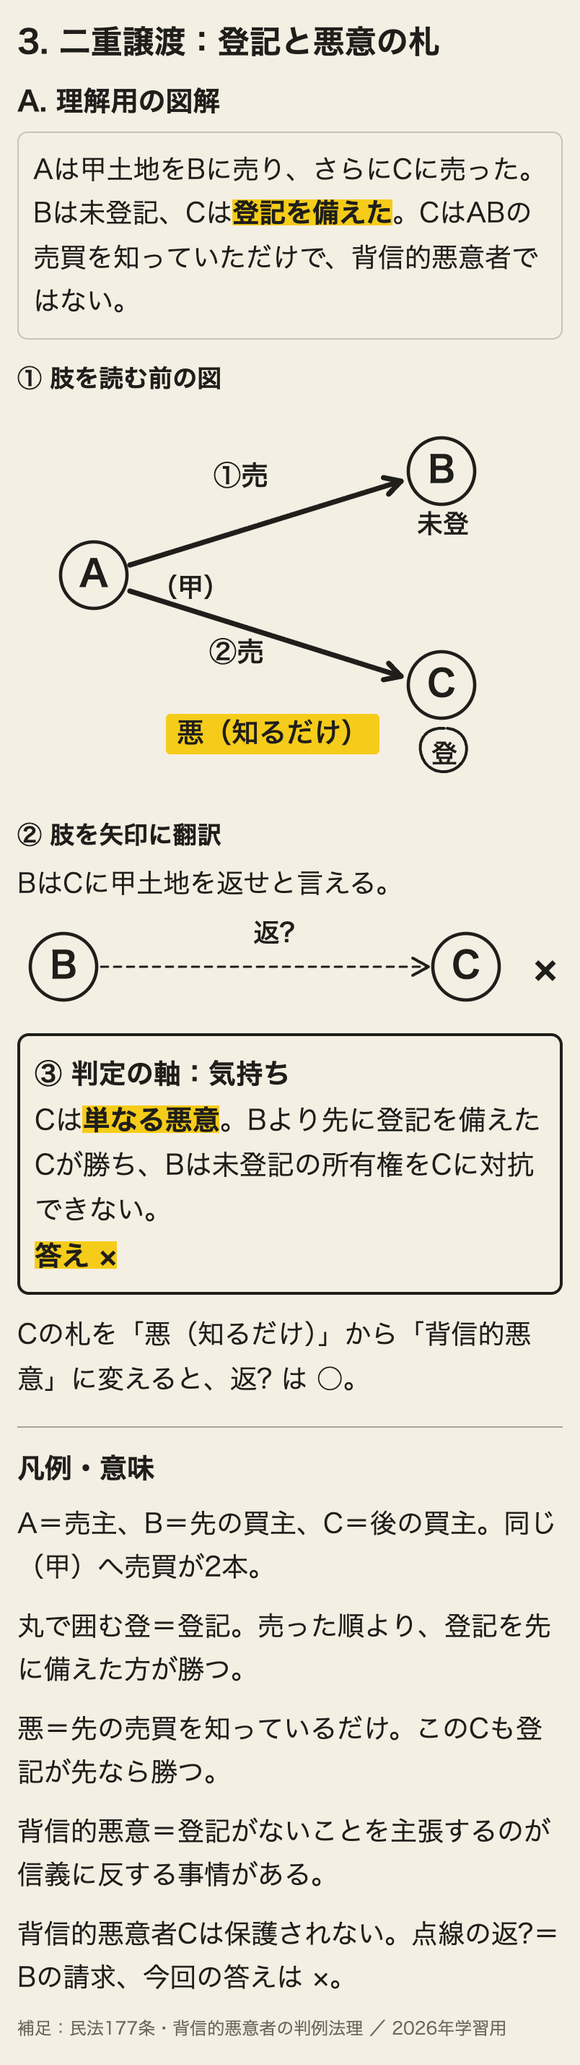
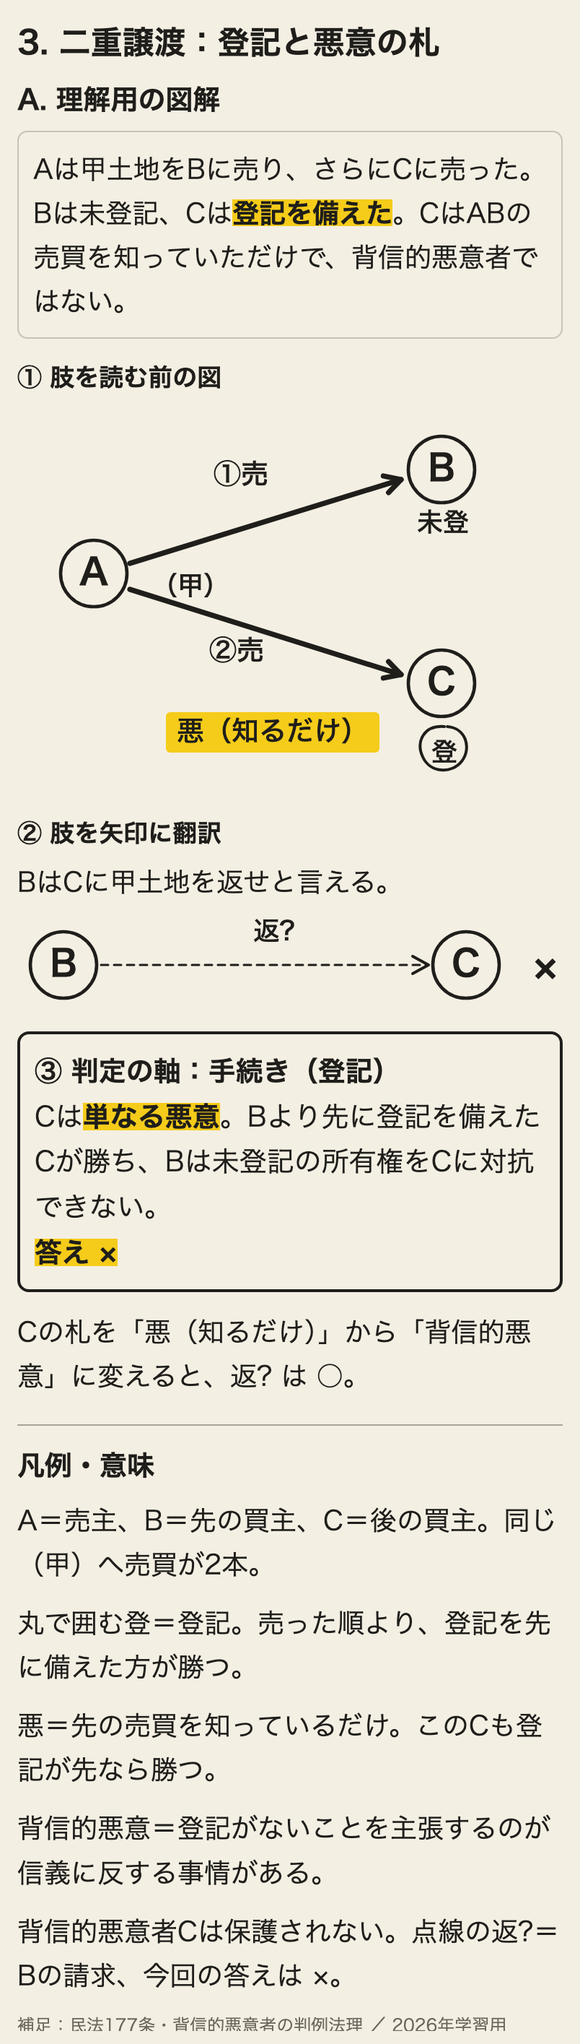
publish: 宅建業法 暗記スライド 権利の図の型：二重譲渡の軸を登記に、10/10〜12の論点名を復元

diff --git a/plain-0ee08412cf31b48f.html b/plain-0ee08412cf31b48f.html
@@ -873,6 +873,12 @@ body.n #slides,body.n #ft{display:none}body.n #pitfalls{display:block}
 #pitfalls h1{font-size:18px;margin:0 4px 8px}.pf-pager{display:flex;align-items:center;gap:6px;margin-bottom:10px}.pf-pager button{min-width:40px;min-height:44px;font-size:26px;border:1px solid var(--aline);border-radius:6px}.pf-pager button:disabled{opacity:.3}.pf-pager select{width:0;flex:1;min-height:44px;font-size:13px;background:var(--abg);color:inherit;border:1px solid var(--aline);border-radius:6px;padding:5px}
 #pitfalls .pf-card{padding:0;border:0}#pitfalls .pf-card[hidden]{display:none}.pf-image{display:block;width:100%;height:auto;border-radius:6px}.pf-more{margin-top:10px}.pf-more>summary{font-size:14px}.pf-more .pf-flow{display:none}.pf-references{margin-top:12px;font-size:12px}
 
+/* Rights diagram pairs: only navigation, no grade or sync writes. */
+#kenri-fig{display:none;max-width:476px;margin:auto;padding:calc(var(--ahd) + env(safe-area-inset-top) + 8px) 8px 36px}
+body.kf #slides,body.kf #ft{display:none}body.kf #kenri-fig{display:block}
+#kenri-fig h1{font-size:21px;margin:0 4px 10px}.kf-pager{display:flex;align-items:center;gap:6px;margin-bottom:10px}.kf-pager button{min-width:40px;min-height:44px;font-size:26px;border:1px solid var(--aline);border-radius:6px}.kf-pager button:disabled{opacity:.3}.kf-pager select{width:0;flex:1;min-height:44px;font-size:15px;background:var(--abg);color:inherit;border:1px solid var(--aline);border-radius:6px;padding:5px}
+.kf-card[hidden]{display:none}.kf-figure{margin:0 0 18px}.kf-figure figcaption{position:absolute;width:1px;height:1px;padding:0;margin:-1px;overflow:hidden;clip-path:inset(50%);white-space:nowrap}.kf-image{display:block;width:100%;height:auto;border-radius:6px}.kf-source{font-size:12px;margin:8px 4px}.kf-source a{color:inherit}
+
 .scope-reading,.scope-lesson{font-size:16px;line-height:1.75;overflow-wrap:anywhere;scroll-margin-top:calc(var(--ahd) + 20px)}.scope-reading{margin:28px 0;padding:14px;border:1px solid var(--aline);border-radius:10px}.scope-reading h2{font-size:22px;margin:0 0 12px}.scope-reading h3{font-size:18px;margin:28px 0 12px}.scope-reading details,.scope-lesson{border-top:1px solid var(--aline);padding:8px 0}.scope-reading summary,.scope-lesson summary{min-height:44px;padding:10px 4px;font-size:16px;font-weight:700;cursor:pointer}.scope-reading img{width:100%;height:auto}.scope-reading .optional-figure{margin:0}.scope-reading .license-panel{display:block}.scope-reading .license-switch,.scope-reading .zk-feedback{display:none}.scope-reading li{margin:10px 0}.scope-reading a,.scope-source{display:inline-block;min-height:44px;padding:10px 4px;color:inherit}.scope-reading .scope-item{padding:12px 0;border-bottom:1px solid var(--aline)}.scope-reading .scope-item p{margin:4px 0}.scope-links{display:flex;gap:8px;flex-wrap:wrap;margin:8px 0 22px}.scope-links a{display:flex;align-items:center;min-height:44px;padding:10px 12px;border:1px solid var(--aline);border-radius:8px;color:inherit;text-decoration:none;font-size:15px}.scope-lesson{padding:8px 16px;margin-bottom:20px}.scope-reading .optional-question>p{white-space:normal}.scope-reading .zk-note,.scope-reading .zk-sources{font-size:16px}.scope-reading .optional-root>summary{font-size:20px}
 </style>
 </head>
@@ -1135,6 +1141,7 @@ body.n #slides,body.n #ft{display:none}body.n #pitfalls{display:block}
 売買・交換
 定めがなければ、この記載は不要" width="1122" height="1402" decoding="async"><details class="pf-more"><summary>詳しく見る・確認問題</summary><p class="pf-mix">混同：37条の条件付き記載事項を全部同じ範囲だと思う。</p><div class="pf-flow">災害の負担 → 貸借も<br>税金の負担 → 売買・交換</div><p>天災その他不可抗力による損害の負担について定めたときは、売買・交換・貸借の37条書面に記載。租税公課の負担の定めは、売買・交換の記載事項。いずれも「定めがあるとき」の話で、契約違反に対する違約金とは別。</p><details><summary>一問確認：貸借では、災害による損害の負担を定めても37条書面に書かなくてよい？</summary><p>×。定めがあれば貸借でも記載する。</p></details></details></article>
 <details class="pf-references"><summary>動画の出典</summary><p><a href="https://www.youtube.com/watch?v=Qqpu46WYJ6Y">35条</a> ／ <a href="https://www.youtube.com/watch?v=e8CXxh6IFtE">37条</a> ／ <a href="https://www.youtube.com/watch?v=jo5e24ToJJc">8種制限</a></p></details></section>
+<section id="kenri-fig" aria-label="権利の図の型"><h1>権利の図の型</h1><div class="kf-pager"><button type="button" data-kf-step="-1" aria-label="前の論点" disabled>‹</button><select id="kf-select" aria-label="論点を選ぶ"><option value="kf-sagi">1. 意思表示：詐欺と第三者</option><option value="kf-dairi">2. 代理：無権代理の三角形</option><option value="kf-nijou">3. 二重譲渡：登記と悪意の札</option><option value="kf-tentai">4. 賃貸借：縦3段の転貸</option><option value="kf-shakuchi">5. 借地借家法：30・20・10</option><option value="kf-teitou">6. 抵当権：設定時の土地と建物</option><option value="kf-souzoku">7. 相続：家系図と配偶者の取り分</option></select><button type="button" data-kf-step="1" aria-label="次の論点">›</button></div><article class="kf-card" id="kf-sagi"><figure class="kf-figure"><figcaption>A. 理解用の図解</figcaption><img class="kf-image" loading="lazy" width="804" src="kenri-fig/clean-sagi.png?v=20261004" alt="AはBにだまされて甲土地を売り、BはCに転売。Cは登記を備え、善意・無過失。その後、Aが詐欺を理由に売買を取り消した。 肢：AはCに甲土地を返せと言える。 判定の軸：気持ち。Cは取消し前の第三者。善意・無過失なので守られる。AはCに取消しを対抗できない。 答え× Cの札を「善・無過」から「悪」に変えると、返? は ○。 凡例・意味：丸A・B・C＝人、（甲）＝土地。太矢印＝売買、①②③＝順番。 詐＝詐欺、善＝詐欺を知らない、無過＝知らないことに過失がない。 丸で囲む登＝登記、×＝取消し。点線の返?＝Aの返還請求、答えは ×。 取消し前の善意無過失のCに、Aは詐欺取消しを対抗できない。 詐を強（強迫）に変えると、善意のCにも取消しを対抗できる。"></figure><figure class="kf-figure"><figcaption>B. 本番用の鉛筆の図</figcaption><img class="kf-image" loading="lazy" width="804" src="kenri-fig/pencil-sagi.png?v=20261004" alt="AはBにだまされて甲土地を売り、BはCに転売。Cは登記を備え、善意・無過失。その後、Aが詐欺を理由に売買を取り消した。 肢：AはCに甲土地を返せと言える。 判定の軸：気持ち。Cは取消し前の第三者。善意・無過失なので守られる。AはCに取消しを対抗できない。 答え× Cの札を「善・無過」から「悪」に変えると、返? は ○。 凡例・意味：丸A・B・C＝人、（甲）＝土地。太矢印＝売買、①②③＝順番。 詐＝詐欺、善＝詐欺を知らない、無過＝知らないことに過失がない。 丸で囲む登＝登記、×＝取消し。点線の返?＝Aの返還請求、答えは ×。 取消し前の善意無過失のCに、Aは詐欺取消しを対抗できない。 詐を強（強迫）に変えると、善意のCにも取消しを対抗できる。"></figure><p class="kf-source">補足：<a href="https://laws.e-gov.go.jp/law/129AC0000000089?occasion_date=20260401" target="_blank" rel="noopener">民法96条3項</a></p></article><article class="kf-card" id="kf-dairi" hidden><figure class="kf-figure"><figcaption>A. 理解用の図解</figcaption><img class="kf-image" loading="lazy" width="804" src="kenri-fig/clean-dairi.png?v=20261004" alt="Bは代理権がないと知らず、Aの代理人としてCと契約。Aは追認を拒絶。Cは善意・無過失で、Bは制限行為能力者ではない。 肢：CはBに履行または損害賠償を請求できる。 判定の軸：気持ち。Cは善意・無過失。追認も代理権もないので、Cの選択でBに履行または損害賠償を請求できる。 答え○ Bが無権と知らないまま、Cの札を「無過」から「過」に変えると ×。 凡例・意味：A＝本人、B＝無権代理人、C＝相手方。三角形の底辺がBとCの契約。 権0＝代理権なし、不知＝Bは無権と知らず、拒＝Aの追認拒絶。 点線の履行?＝CがBに請求できるか。履行・損害賠償のどちらかをCが選ぶ。 Cは原則、善意無過失。Bが無権と知っていたなら、善意Cは過失ありでも請求可。 追認の催告はCの善悪を問わない。追認前の取消しは善意Cだけ（過失は不問）。 117条の責任は、Bが制限行為能力者なら負わない。"></figure><figure class="kf-figure"><figcaption>B. 本番用の鉛筆の図</figcaption><img class="kf-image" loading="lazy" width="804" src="kenri-fig/pencil-dairi.png?v=20261004" alt="Bは代理権がないと知らず、Aの代理人としてCと契約。Aは追認を拒絶。Cは善意・無過失で、Bは制限行為能力者ではない。 肢：CはBに履行または損害賠償を請求できる。 判定の軸：気持ち。Cは善意・無過失。追認も代理権もないので、Cの選択でBに履行または損害賠償を請求できる。 答え○ Bが無権と知らないまま、Cの札を「無過」から「過」に変えると ×。 凡例・意味：A＝本人、B＝無権代理人、C＝相手方。三角形の底辺がBとCの契約。 権0＝代理権なし、不知＝Bは無権と知らず、拒＝Aの追認拒絶。 点線の履行?＝CがBに請求できるか。履行・損害賠償のどちらかをCが選ぶ。 Cは原則、善意無過失。Bが無権と知っていたなら、善意Cは過失ありでも請求可。 追認の催告はCの善悪を問わない。追認前の取消しは善意Cだけ（過失は不問）。 117条の責任は、Bが制限行為能力者なら負わない。"></figure><p class="kf-source">補足：<a href="https://laws.e-gov.go.jp/law/129AC0000000089?occasion_date=20260401" target="_blank" rel="noopener">民法114・115・117条</a></p></article><article class="kf-card" id="kf-nijou" hidden><figure class="kf-figure"><figcaption>A. 理解用の図解</figcaption><img class="kf-image" loading="lazy" width="804" src="kenri-fig/clean-nijou.png?v=20261004" alt="Aは甲土地をBに売り、さらにCに売った。Bは未登記、Cは登記を備えた。CはABの売買を知っていただけで、背信的悪意者ではない。 肢：BはCに甲土地を返せと言える。 判定の軸：手続き（登記）。Cは単なる悪意。Bより先に登記を備えたCが勝ち、Bは未登記の所有権をCに対抗できない。 答え× Cの札を「悪（知るだけ）」から「背信的悪意」に変えると、返? は ○。 凡例・意味：A＝売主、B＝先の買主、C＝後の買主。同じ（甲）へ売買が2本。 丸で囲む登＝登記。売った順より、登記を先に備えた方が勝つ。 悪＝先の売買を知っているだけ。このCも登記が先なら勝つ。 背信的悪意＝登記がないことを主張するのが信義に反する事情がある。 背信的悪意者Cは保護されない。点線の返?＝Bの請求、今回の答えは ×。"></figure><figure class="kf-figure"><figcaption>B. 本番用の鉛筆の図</figcaption><img class="kf-image" loading="lazy" width="804" src="kenri-fig/pencil-nijou.png?v=20261004" alt="Aは甲土地をBに売り、さらにCに売った。Bは未登記、Cは登記を備えた。CはABの売買を知っていただけで、背信的悪意者ではない。 肢：BはCに甲土地を返せと言える。 判定の軸：手続き（登記）。Cは単なる悪意。Bより先に登記を備えたCが勝ち、Bは未登記の所有権をCに対抗できない。 答え× Cの札を「悪（知るだけ）」から「背信的悪意」に変えると、返? は ○。 凡例・意味：A＝売主、B＝先の買主、C＝後の買主。同じ（甲）へ売買が2本。 丸で囲む登＝登記。売った順より、登記を先に備えた方が勝つ。 悪＝先の売買を知っているだけ。このCも登記が先なら勝つ。 背信的悪意＝登記がないことを主張するのが信義に反する事情がある。 背信的悪意者Cは保護されない。点線の返?＝Bの請求、今回の答えは ×。"></figure><p class="kf-source">補足：<a href="https://laws.e-gov.go.jp/law/129AC0000000089?occasion_date=20260401" target="_blank" rel="noopener">民法177条・背信的悪意者の判例法理</a></p></article><article class="kf-card" id="kf-tentai" hidden><figure class="kf-figure"><figcaption>A. 理解用の図解</figcaption><img class="kf-image" loading="lazy" width="804" src="kenri-fig/clean-tentai.png?v=20261004" alt="A→B→Cと、Aの承諾がある転貸。AとBが合意解除した。合意解除の時に、AにはBの不払いによる解除権がなかった。 肢：Aは合意解除を理由に、Cに明渡しを求められる。 判定の軸：時間。③合意解除の時に、不払いによる解除権はない。ABだけの合意解除をCに対抗できず、Cに明渡しを求められない。 答え× ③の札を「合意解除」から「Bの不払いによる解除」に変えると、返? は ○。 凡例・意味：A＝貸主、B＝借主、C＝転借人。貸＝賃貸、転＝転貸、×＝解除。 点線の返?＝AがCに明渡しを求めるか。今回は承諾ありの適法な転貸。 合意解除はCに対抗できない。ただし合意時に債務不履行解除権があれば別。 Bの賃料不払いによる債務不履行解除は、Cに対抗できる。 無断転貸は原則解除可。背信的でない特段の事情があれば解除不可。"></figure><figure class="kf-figure"><figcaption>B. 本番用の鉛筆の図</figcaption><img class="kf-image" loading="lazy" width="804" src="kenri-fig/pencil-tentai.png?v=20261004" alt="A→B→Cと、Aの承諾がある転貸。AとBが合意解除した。合意解除の時に、AにはBの不払いによる解除権がなかった。 肢：Aは合意解除を理由に、Cに明渡しを求められる。 判定の軸：時間。③合意解除の時に、不払いによる解除権はない。ABだけの合意解除をCに対抗できず、Cに明渡しを求められない。 答え× ③の札を「合意解除」から「Bの不払いによる解除」に変えると、返? は ○。 凡例・意味：A＝貸主、B＝借主、C＝転借人。貸＝賃貸、転＝転貸、×＝解除。 点線の返?＝AがCに明渡しを求めるか。今回は承諾ありの適法な転貸。 合意解除はCに対抗できない。ただし合意時に債務不履行解除権があれば別。 Bの賃料不払いによる債務不履行解除は、Cに対抗できる。 無断転貸は原則解除可。背信的でない特段の事情があれば解除不可。"></figure><p class="kf-source">補足：<a href="https://laws.e-gov.go.jp/law/129AC0000000089?occasion_date=20260401" target="_blank" rel="noopener">民法612・613条3項・背信行為の判例法理</a></p></article><article class="kf-card" id="kf-shakuchi" hidden><figure class="kf-figure"><figcaption>A. 理解用の図解</figcaption><img class="kf-image" loading="lazy" width="804" src="kenri-fig/clean-shakuchi.png?v=20261004" alt="期間30年の普通借地契約を初めて更新する。更新後の期間について、法律より長くする合意はない。 肢：最初の更新後の期間は20年である。 判定の軸：数字。普通借地の最初の更新は20年。設定時は30年、次の更新から10年。いずれも、より長い期間の合意はできる。 答え○ 更新の札を「初回」から「2回目」に変えると20年は ×、10年になる。 凡例・意味：横軸＝経過年数。30・50・60は経過年、上の30・20・10が各期間。 普通借地：最短30年、最初の更新20年、以後10年。より長い合意は可。 普通借家：1年未満の定めは「期間の定めなし」。定期借家にはこの扱いなし。 借地の対抗：借地権者本人名義の、借地上の建物の登記。長男名義では不可。 借家の対抗：建物の引渡し。点線の年数?＝更新後20年か、答えは ○。"></figure><figure class="kf-figure"><figcaption>B. 本番用の鉛筆の図</figcaption><img class="kf-image" loading="lazy" width="804" src="kenri-fig/pencil-shakuchi.png?v=20261004" alt="期間30年の普通借地契約を初めて更新する。更新後の期間について、法律より長くする合意はない。 肢：最初の更新後の期間は20年である。 判定の軸：数字。普通借地の最初の更新は20年。設定時は30年、次の更新から10年。いずれも、より長い期間の合意はできる。 答え○ 更新の札を「初回」から「2回目」に変えると20年は ×、10年になる。 凡例・意味：横軸＝経過年数。30・50・60は経過年、上の30・20・10が各期間。 普通借地：最短30年、最初の更新20年、以後10年。より長い合意は可。 普通借家：1年未満の定めは「期間の定めなし」。定期借家にはこの扱いなし。 借地の対抗：借地権者本人名義の、借地上の建物の登記。長男名義では不可。 借家の対抗：建物の引渡し。点線の年数?＝更新後20年か、答えは ○。"></figure><p class="kf-source">補足：<a href="https://laws.e-gov.go.jp/law/403AC0000000090?occasion_date=20260401" target="_blank" rel="noopener">借地借家法3・4・10・29・31条</a></p></article><article class="kf-card" id="kf-teitou" hidden><figure class="kf-figure"><figcaption>A. 理解用の図解</figcaption><img class="kf-image" loading="lazy" width="804" src="kenri-fig/clean-teitou.png?v=20261004" alt="A所有の土地と、その上にあるA所有の建物。土地に抵当権を設定し、競売で土地だけがC所有になった。 肢：建物のために法定地上権が成立する。 判定の軸：時間。①抵当権設定の時に、建物があり土地・建物は同じA所有。競売で所有者が分かれたので、法定地上権が成立する。 答え○ ①の建物の札を「あり」から「なし（更地）」に変えると、地上? は ×。 凡例・意味：□＝土地と建物、△＝抵当権。同A＝同一所有者、別有＝競売で所有が分かれる。 法定地上権：設定時に建物があり、土地・建物が同一所有、競売で所有が分離。 更地に抵当権→その後建物なら、法定地上権は成立しない。 設定後の建物は土地と一括競売可。優先弁済は土地代金だけ（対抗できる利用権がない場合）。 賃料への物上代位：賃料の払渡し前に差押えが必要。 点線の地上?＝法定地上権が成立するか。今回の答えは ○。"></figure><figure class="kf-figure"><figcaption>B. 本番用の鉛筆の図</figcaption><img class="kf-image" loading="lazy" width="804" src="kenri-fig/pencil-teitou.png?v=20261004" alt="A所有の土地と、その上にあるA所有の建物。土地に抵当権を設定し、競売で土地だけがC所有になった。 肢：建物のために法定地上権が成立する。 判定の軸：時間。①抵当権設定の時に、建物があり土地・建物は同じA所有。競売で所有者が分かれたので、法定地上権が成立する。 答え○ ①の建物の札を「あり」から「なし（更地）」に変えると、地上? は ×。 凡例・意味：□＝土地と建物、△＝抵当権。同A＝同一所有者、別有＝競売で所有が分かれる。 法定地上権：設定時に建物があり、土地・建物が同一所有、競売で所有が分離。 更地に抵当権→その後建物なら、法定地上権は成立しない。 設定後の建物は土地と一括競売可。優先弁済は土地代金だけ（対抗できる利用権がない場合）。 賃料への物上代位：賃料の払渡し前に差押えが必要。 点線の地上?＝法定地上権が成立するか。今回の答えは ○。"></figure><p class="kf-source">補足：<a href="https://laws.e-gov.go.jp/law/129AC0000000089?occasion_date=20260401" target="_blank" rel="noopener">民法388・389・304・372条</a></p></article><article class="kf-card" id="kf-souzoku" hidden><figure class="kf-figure"><figcaption>A. 理解用の図解</figcaption><img class="kf-image" loading="lazy" width="804" src="kenri-fig/clean-souzoku.png?v=20261004" alt="Aが死亡し、相続人は配偶者Bと子C（1人）。遺言はなく、法定相続分で相続する。 肢：配偶者Bの取り分は1/2である。 判定の軸：数字。配偶者と子が相続人なので、配偶者Bは1/2。一緒に相続する相手が直系尊属なら2/3、兄弟姉妹なら3/4。 答え○ 共同相続人の札を「子」から「父（子・孫等なし）」に変えると、1/2は ×、2/3。 凡例・意味：A＝亡くなった人、B＝配偶者、C＝子。横の二重線＝婚姻、縦線＝親子。 配偶者の法定相続分：子と1/2、直系尊属と2/3、兄弟姉妹と3/4。 子の代襲は、その子（孫）へ。孫も先に死亡等なら、さらに再代襲する。 相続放棄した人の子は、その放棄を理由には代襲しない。 兄弟姉妹の代襲は甥・姪まで。甥・姪の子へ再代襲はしない。 点線の取分?＝Bの取り分は1/2か。子・代襲者がいないと尊属、尊属もいないと兄弟姉妹。"></figure><figure class="kf-figure"><figcaption>B. 本番用の鉛筆の図</figcaption><img class="kf-image" loading="lazy" width="804" src="kenri-fig/pencil-souzoku.png?v=20261004" alt="Aが死亡し、相続人は配偶者Bと子C（1人）。遺言はなく、法定相続分で相続する。 肢：配偶者Bの取り分は1/2である。 判定の軸：数字。配偶者と子が相続人なので、配偶者Bは1/2。一緒に相続する相手が直系尊属なら2/3、兄弟姉妹なら3/4。 答え○ 共同相続人の札を「子」から「父（子・孫等なし）」に変えると、1/2は ×、2/3。 凡例・意味：A＝亡くなった人、B＝配偶者、C＝子。横の二重線＝婚姻、縦線＝親子。 配偶者の法定相続分：子と1/2、直系尊属と2/3、兄弟姉妹と3/4。 子の代襲は、その子（孫）へ。孫も先に死亡等なら、さらに再代襲する。 相続放棄した人の子は、その放棄を理由には代襲しない。 兄弟姉妹の代襲は甥・姪まで。甥・姪の子へ再代襲はしない。 点線の取分?＝Bの取り分は1/2か。子・代襲者がいないと尊属、尊属もいないと兄弟姉妹。"></figure><p class="kf-source">補足：<a href="https://laws.e-gov.go.jp/law/129AC0000000089?occasion_date=20260401" target="_blank" rel="noopener">民法887・889・900・939条</a></p></article></section>
 <section id="zukai"><nav class="scope-links"><a href="#video-scope" data-zk-target="video-scope">動画の学習範囲を確認</a><a href="#optional-details" data-zk-target="optional-details">余裕があれば確認</a></nav><div class="zk-intro">動画の基本を図で覚え、確認問題で思い出す。</div>
 <nav class="zk-jumps" aria-label="図解の分野"><a href="#zk37" data-zk-target="zk37">報酬：片方と合計</a><a href="#zk32" data-zk-target="zk32">合格から取引士証</a><a href="#zk30" data-zk-target="zk30">事務所と案内所</a><a href="#zk29" data-zk-target="zk29">業者と宅建士の処分</a><a href="#zk27" data-zk-target="zk27">37条：貸借の5項目</a><a href="#zk38" data-zk-target="zk38">建築確認：動画の規則</a><a href="#zk26" data-zk-target="zk26">宅建業法：欠格</a><a href="#zk-focus" data-zk-target="zk-focus">土地・建物</a><a href="#zk-rights" data-zk-target="zk-rights">権利関係 3枚</a><a href="#zk-tax" data-zk-target="zk-tax">税・その他 5枚</a><a href="#zk-law" data-zk-target="zk-law">法令上の制限</a></nav><figure class="zk" id="zk37">
 <figcaption><span class="no">図37 · 報酬</span><b>売買は片方ずつ。賃貸は合計。</b></figcaption>
@@ -1901,7 +1908,7 @@ body.n #slides,body.n #ft{display:none}body.n #pitfalls{display:block}
       '<details class="pm-card cq-d-days"><summary>日程の全体</summary><ul class="cq-list">' + plan.days.map(function (x) { var rq = x.tasks.filter(function (tk) { return !tk.optional; }), n = rq.filter(function (tk) { return taskDone(tk, latest); }).length; return '<li class="' + (x.date === d ? 'cq-now' : '') + '"><div class="cq-weak-top"><span class="cq-date">' + md(x.date) + '</span><span class="' + (n === rq.length ? 'cq-ok' : x.date < d ? 'cq-ng' : 'pm-muted') + '">' + n + '/' + rq.length + '</span></div><span class="cq-sub">' + esc(x.phase) + '・' + esc(x.time) + '</span>' + x.tasks.map(function (tk) { return '<span class="cq-line">' + (taskDone(tk, latest) ? '✓ ' : '・') + esc(tk.label) + '</span>'; }).join('') + '</li>'; }).join('') + '</ul></details>' +
       '<details class="pm-card cq-d-cut"><summary>遅れたときに削る順番</summary><ol class="cq-ol">' + plan.cutOrder.map(function (x) { return '<li>' + esc(x) + '</li>'; }).join('') + '</ol><p class="cq-sub"><b>削らない：</b>' + esc(plan.keep) + '</p></details>' +
       '<details class="pm-card cq-d-report"><summary>Claudeへの報告文</summary><p class="cq-report-text" id="cq-report-text">' + esc(report(d, rs)) + '</p><div class="pm-tools"><button type="button" data-cq-copy>コピー</button></div><p class="pm-muted">本問の記録は同期でClaudeに届きます。模試の点数やチェックは、この文をコピーして送ってください。</p></details>' +
-      '<div class="cq-links"><button type="button" class="cq-wide-btn" data-cq-rec="">ほかの範囲を記録する</button><button type="button" class="cq-wide-btn" data-kami-open>神問題集を解き直す</button><button type="button" class="cq-wide-btn" data-pitfalls-open>つまずきノート</button></div></section>';
+      '<div class="cq-links"><button type="button" class="cq-wide-btn" data-cq-rec="">ほかの範囲を記録する</button><button type="button" class="cq-wide-btn" data-kami-open>神問題集を解き直す</button><button type="button" class="cq-wide-btn" data-pitfalls-open>つまずきノート</button><button type="button" class="cq-wide-btn" data-kenri-fig-open>権利の図の型</button></div></section>';
     var open = {}; box.querySelectorAll('details').forEach(function (el) { if (el.open) open[el.className] = true; });
     box.innerHTML = head + (lastMsg ? '<p class="pm-status' + (lastMsg.warn ? ' pm-warn' : '') + '" role="status">' + esc(lastMsg.text) + '</p>' : '') + todayCard + trendHTML(rs, latest) + sectionGauges(latest) + weakCard + more;
     box.querySelectorAll('details').forEach(function (el) { if (open[el.className]) el.open = true; });
@@ -2009,7 +2016,7 @@ body.n #slides,body.n #ft{display:none}body.n #pitfalls{display:block}
   }, render: function () { render(); }};
 })(window);
 
-window.TAKKEN_COACH_PLAN={"version": "2026-10-03b", "examDate": "2026-10-18", "start": "2026-09-30", "targets": {"kenri": 8, "horei": 6, "zei": 2, "gyoho": 18, "menjo": 4, "total": 38, "min": 36}, "subjects": [{"id": "gyoho", "label": "業法", "max": 20}, {"id": "menjo", "label": "免除", "max": 5}, {"id": "horei", "label": "法令", "max": 8}, {"id": "zei", "label": "税価", "max": 3}, {"id": "kenri", "label": "権利", "max": 14}], "order": "問26〜45 業法（35分）→ 問46〜50（8分）→ 問15〜25 法令・税（22分）→ 問1〜14 権利（40分）→ マーク見直し（15分）。1問3分を超えたら印をつけて次へ。", "mocks": [{"id": "m1", "date": "2026-10-07", "label": "模試1", "source": "令和7年度 本試験", "goal": 30}, {"id": "m2", "date": "2026-10-10", "label": "模試2", "source": "令和6年度 本試験", "goal": 32}, {"id": "m3", "date": "2026-10-12", "label": "模試3", "source": "令和5年度 本試験", "goal": 34}, {"id": "m4", "date": "2026-10-15", "label": "模試4", "source": "予想模試①（無ければ令和4年度）", "goal": 35}, {"id": "m5", "date": "2026-10-16", "label": "模試5", "source": "予想模試②（無ければ令和3年度10月）", "goal": 36}], "days": [{"date": "2026-09-30", "phase": "業法を終わらせる", "time": "夜2時間", "minimum": "前回の誤答を見直す＋本問5問", "tasks": [{"id": "0930-a", "type": "range", "label": "業法 050〜065（媒介・広告）", "volume": 2, "start": 50, "end": 65}]}, {"date": "2026-10-01", "phase": "業法を終わらせる", "time": "夜2時間", "minimum": "前日の誤答を見直す＋本問5問", "tasks": [{"id": "1001-a", "type": "range", "label": "業法 066〜081（35条・37条）", "volume": 2, "start": 66, "end": 81}]}, {"date": "2026-10-02", "phase": "業法を終わらせる", "time": "夜2時間", "minimum": "前日の誤答を見直す＋本問5問", "tasks": [{"id": "1002-a", "type": "range", "label": "業法 082〜097（8種制限・クーリングオフ・手付金等）", "volume": 2, "start": 82, "end": 97}]}, {"date": "2026-10-03", "phase": "業法を終わらせる", "time": "夜2時間以上", "minimum": "前日の誤答を見直す＋本問5問＋受験票の確認", "tasks": [{"id": "1003-a", "type": "range", "label": "業法 098〜111（報酬・監督処分・住宅瑕疵）", "volume": 2, "start": 98, "end": 111}, {"id": "1003-c", "type": "check", "label": "受験票が届いたか、会場と移動手段を確認（5分）"}]}, {"date": "2026-10-04", "phase": "法令・税を回す＋業法の誤答を直す（外出期間）", "time": "夜・移動の合間（0時までに終える）", "minimum": "間違いやすいリストを作る＋業法009", "tasks": [{"id": "1004-l", "type": "check", "label": "間違いやすいリスト（上の3行）を誤答カードの先頭にも書き写す（10分）"}, {"id": "1004-a", "type": "range", "label": "業法 009（未記録の1問）", "volume": 2, "start": 9, "end": 9}, {"id": "1004-r", "type": "redo", "label": "業法の誤答 解き直し①：8種制限・報酬・監督処分。全肢の理由を言えるまで", "volume": 2, "since": "2026-10-03", "questions": [82, 86, 88, 89, 90, 100, 102, 106, 107, 108]}, {"id": "1004-b", "type": "range", "label": "第3分冊 019〜030（法令上の制限）", "volume": 3, "start": 19, "end": 30}]}, {"date": "2026-10-05", "phase": "法令・税を回す＋業法の誤答を直す（外出期間）", "time": "夜・移動の合間（0時までに終える）", "minimum": "上のリストを読む＋本問5問", "tasks": [{"id": "1005-r", "type": "redo", "label": "業法の誤答 解き直し②：35条・37条とその他。全肢の理由を言えるまで", "volume": 2, "since": "2026-10-03", "questions": [54, 60, 61, 63, 69, 72, 77, 95]}, {"id": "1005-a", "type": "range", "label": "第3分冊 031〜045（法令上の制限）", "volume": 3, "start": 31, "end": 45}]}, {"date": "2026-10-06", "phase": "法令・税を回す＋業法の誤答を直す（外出期間）", "time": "夜・移動の合間（0時までに終える）", "minimum": "上のリストを読む＋本問5問", "tasks": [{"id": "1006-a", "type": "range", "label": "第3分冊 046〜063（法令上の制限）", "volume": 3, "start": 46, "end": 63}]}, {"date": "2026-10-07", "phase": "法令・税を回す＋業法の誤答を直す（外出期間）", "time": "現場を外れる日。前夜は0時までに寝る", "minimum": "模試1と採点", "tasks": [{"id": "1007-m", "type": "mock", "label": "模試1 13:00〜15:00 令和7年度", "mockId": "m1"}, {"id": "1007-b", "type": "check", "label": "模試1の誤答を全肢の理由まで直す。うっかりの誤答はリストに1行足す"}, {"id": "1007-a", "type": "range", "label": "余力があれば 第3分冊 064〜070（法令の残り）", "volume": 3, "start": 64, "end": 70, "optional": true}]}, {"date": "2026-10-08", "phase": "法令・税を回す＋業法の誤答を直す（外出期間）", "time": "午前が空く", "minimum": "本問10問", "tasks": [{"id": "1008-a", "type": "range", "label": "第3分冊 064〜070（法令の残り。10/7に済めば飛ばす）", "volume": 3, "start": 64, "end": 70}, {"id": "1008-b", "type": "range", "label": "第3分冊 071〜085（税・価格。基本の問題だけ、深追いしない）", "volume": 3, "start": 71, "end": 85}]}, {"date": "2026-10-09", "phase": "法令・税を回す＋業法の誤答を直す（外出期間）", "time": "夜（0時までに終える）", "minimum": "業法の誤答の2回目", "tasks": [{"id": "1009-a", "type": "range", "label": "第3分冊 086〜102（税・価格）", "volume": 3, "start": 86, "end": 102}, {"id": "1009-r", "type": "redo", "label": "業法の誤答 2回目：解き直しでまた×だった問題だけ", "volume": 2, "since": "2026-10-07", "pick": "wrong", "questions": [82, 86, 88, 89, 90, 100, 102, 106, 107, 108, 54, 60, 61, 63, 69, 72, 77, 95]}, {"id": "1009-b", "type": "check", "label": "業法と法令の誤答カードを一巡"}]}, {"date": "2026-10-10", "phase": "模試と弱点つぶし", "time": "8時間", "minimum": "模試2と採点", "tasks": [{"id": "1010-a", "type": "check", "label": "肢を読む前に図（権利の図の型を開く）"}, {"id": "1010-m", "type": "mock", "label": "模試2 13:00〜15:00 令和6年度", "mockId": "m2"}, {"id": "1010-b", "type": "check", "label": "採点・誤答の全肢理由＋夜に業法の誤答カード"}]}, {"date": "2026-10-11", "phase": "模試と弱点つぶし", "time": "8時間", "minimum": "借地借家法を一通り", "tasks": [{"id": "1011-a", "type": "check", "label": "肢を読む前に図（権利の図の型を開く）"}, {"id": "1011-b", "type": "check", "label": "権利：区分所有法・不動産登記法"}, {"id": "1011-c", "type": "check", "label": "夜：権利の誤答見直し＋業法の数字"}, {"id": "1011-h", "type": "redo", "label": "業法の隠れた穴：本問は正解でも小問を落とした問題。小問まで全部の理由を言えたら○", "volume": 2, "since": "2026-10-11", "pick": "holes"}]}, {"date": "2026-10-12", "phase": "模試と弱点つぶし", "time": "8時間", "minimum": "模試3と採点", "tasks": [{"id": "1012-a", "type": "check", "label": "肢を読む前に図（権利の図の型を開く）"}, {"id": "1012-m", "type": "mock", "label": "模試3 13:00〜15:00 令和5年度", "mockId": "m3"}, {"id": "1012-b", "type": "check", "label": "採点・誤答。Claudeに報告して最終配分を決める"}]}, {"date": "2026-10-13", "phase": "模試と弱点つぶし", "time": "朝と夜（日中は予定あり）", "minimum": "模試2・3の誤答を一巡", "tasks": [{"id": "1013-a", "type": "check", "label": "7:00〜10:30 模試2・3の誤答"}, {"id": "1013-b", "type": "check", "label": "18:00〜21:00 業法の弱点：誤答18問の3回目＋模試の業法の誤答"}]}, {"date": "2026-10-14", "phase": "模試と弱点つぶし", "time": "8時間（昼に予定1件）", "minimum": "統計の数字を覚える", "tasks": [{"id": "1014-a", "type": "check", "label": "法改正と統計（RE.LIFE直前動画。無ければ予想模試の統計ページ）"}, {"id": "1014-b", "type": "check", "label": "税・価格と法令の数字表"}, {"id": "1014-c", "type": "check", "label": "夜：業法の誤答カード"}, {"id": "1014-h", "type": "redo", "label": "第3分冊の隠れた穴：本問は正解でも小問を落とした問題。小問まで言えたら○", "volume": 3, "since": "2026-10-14", "pick": "holes"}]}, {"date": "2026-10-15", "phase": "模試と弱点つぶし", "time": "8時間", "minimum": "模試4と採点", "tasks": [{"id": "1015-a", "type": "check", "label": "午前：弱点1位の分野"}, {"id": "1015-m", "type": "mock", "label": "模試4 13:00〜15:00 予想模試①（無ければR4）", "mockId": "m4"}, {"id": "1015-b", "type": "check", "label": "採点・誤答"}]}, {"date": "2026-10-16", "phase": "模試と弱点つぶし", "time": "8時間", "minimum": "模試5と採点", "tasks": [{"id": "1016-a", "type": "check", "label": "午前：弱点2位の分野"}, {"id": "1016-m", "type": "mock", "label": "模試5 13:00〜15:00 予想模試②（無ければR3・10月）", "mockId": "m5"}, {"id": "1016-b", "type": "check", "label": "採点・誤答。数字カードの最終版を作る"}]}, {"date": "2026-10-17", "phase": "前日", "time": "軽め", "minimum": "持ち物の確認と早寝", "tasks": [{"id": "1017-a", "type": "check", "label": "間違いやすいリスト・数字カード・誤答カードの見直し（新しい問題はやらない）"}, {"id": "1017-b", "type": "check", "label": "業法の一問一答30問"}, {"id": "1017-c", "type": "check", "label": "持ち物：受験票・鉛筆（HB/B）複数・消しゴム・通信機能のない腕時計・昼食・上着"}, {"id": "1017-d", "type": "check", "label": "22時までに寝る"}]}, {"date": "2026-10-18", "phase": "本試験", "time": "13:00〜15:00", "minimum": "解く順番を守る", "tasks": [{"id": "1018-a", "type": "check", "label": "朝：間違いやすいリスト・数字カード・業法の誤答カードだけ（30分以内）"}, {"id": "1018-b", "type": "check", "label": "12:00までに会場着（集合時刻は受験票で確認）"}, {"id": "1018-c", "type": "check", "label": "解く順番：業法→免除5問→法令・税→権利"}, {"id": "1018-d", "type": "check", "label": "当夜に自己採点して記録"}]}], "checkpoints": [{"date": "2026-10-03", "label": "業法が111問に届いたか", "metric": "count", "volume": 2, "start": 1, "end": 111, "need": 111, "fail": "残り（009）を10/4に回した。第3分冊は001〜018が先行済みのためずらさない"}, {"date": "2026-10-03", "label": "業法050〜111の本問正答率70%以上", "metric": "accuracy", "volume": 2, "start": 50, "end": 111, "need": 0.7, "fail": "10/10の午前を業法の誤答に変える（権利を削る）（10/3は71%で到達。権利は削らず、先行した法令18問分の時間を業法の誤答の解き直しに充てる）"}, {"date": "2026-10-07", "label": "模試1：業法14点以上", "metric": "mock", "mockId": "m1", "field": "gyoho", "need": 14, "fail": "10/10・10/11の午前の一部を業法に回す"}, {"date": "2026-10-07", "label": "模試1：合計28点以上", "metric": "mock", "mockId": "m1", "field": "total", "need": 28, "fail": "25点未満なら権利の目標を7に下げ、業法・法令・免除5問に寄せる"}, {"date": "2026-10-09", "label": "第3分冊 001〜102に届いたか", "metric": "count", "volume": 3, "start": 1, "end": 102, "need": 102, "fail": "税・価格の残りは10/14へ。法令を優先"}, {"date": "2026-10-12", "label": "模試3：合計34点以上", "metric": "mock", "mockId": "m3", "field": "total", "need": 34, "fail": "10/15・10/16の午前をすべて業法と法令に"}, {"date": "2026-10-15", "label": "模試4：合計36点以上", "metric": "mock", "mockId": "m4", "field": "total", "need": 36, "fail": "10/16の午前を目標割れの分野に"}], "cutOrder": ["権利関係の、頻出でない論点（物権変動の細部・共有・地役権・債権総論の細部・担保物権の深いところ）", "税・価格の深追い（取得税・固定資産税・登録免許税／印紙税の基本だけ残す）", "模試の回数（5回→4回。ただし3回は必ず解く）", "免除5問の新しい学習（済みの20問の見直しだけにする）"], "keep": "業法の残り全部、法令上の制限、前日の誤答の見直し、模試3回、本番の解く順番の練習", "traps": {"title": "間違いやすいリスト（解く前に1分）", "from": "2026-10-04", "items": [{"text": "買主も業者なら、8種制限は外れる", "refs": "業法 083・092・093"}, {"text": "その処分をできるのは誰か。免許取消は免許権者だけ", "refs": "業法 107・108"}, {"text": "消費税：税込の価格は割り戻してから計算する。免税業者は×1.04", "refs": "報酬の計算"}]}};
+window.TAKKEN_COACH_PLAN={"version": "2026-10-03b", "examDate": "2026-10-18", "start": "2026-09-30", "targets": {"kenri": 8, "horei": 6, "zei": 2, "gyoho": 18, "menjo": 4, "total": 38, "min": 36}, "subjects": [{"id": "gyoho", "label": "業法", "max": 20}, {"id": "menjo", "label": "免除", "max": 5}, {"id": "horei", "label": "法令", "max": 8}, {"id": "zei", "label": "税価", "max": 3}, {"id": "kenri", "label": "権利", "max": 14}], "order": "問26〜45 業法（35分）→ 問46〜50（8分）→ 問15〜25 法令・税（22分）→ 問1〜14 権利（40分）→ マーク見直し（15分）。1問3分を超えたら印をつけて次へ。", "mocks": [{"id": "m1", "date": "2026-10-07", "label": "模試1", "source": "令和7年度 本試験", "goal": 30}, {"id": "m2", "date": "2026-10-10", "label": "模試2", "source": "令和6年度 本試験", "goal": 32}, {"id": "m3", "date": "2026-10-12", "label": "模試3", "source": "令和5年度 本試験", "goal": 34}, {"id": "m4", "date": "2026-10-15", "label": "模試4", "source": "予想模試①（無ければ令和4年度）", "goal": 35}, {"id": "m5", "date": "2026-10-16", "label": "模試5", "source": "予想模試②（無ければ令和3年度10月）", "goal": 36}], "days": [{"date": "2026-09-30", "phase": "業法を終わらせる", "time": "夜2時間", "minimum": "前回の誤答を見直す＋本問5問", "tasks": [{"id": "0930-a", "type": "range", "label": "業法 050〜065（媒介・広告）", "volume": 2, "start": 50, "end": 65}]}, {"date": "2026-10-01", "phase": "業法を終わらせる", "time": "夜2時間", "minimum": "前日の誤答を見直す＋本問5問", "tasks": [{"id": "1001-a", "type": "range", "label": "業法 066〜081（35条・37条）", "volume": 2, "start": 66, "end": 81}]}, {"date": "2026-10-02", "phase": "業法を終わらせる", "time": "夜2時間", "minimum": "前日の誤答を見直す＋本問5問", "tasks": [{"id": "1002-a", "type": "range", "label": "業法 082〜097（8種制限・クーリングオフ・手付金等）", "volume": 2, "start": 82, "end": 97}]}, {"date": "2026-10-03", "phase": "業法を終わらせる", "time": "夜2時間以上", "minimum": "前日の誤答を見直す＋本問5問＋受験票の確認", "tasks": [{"id": "1003-a", "type": "range", "label": "業法 098〜111（報酬・監督処分・住宅瑕疵）", "volume": 2, "start": 98, "end": 111}, {"id": "1003-c", "type": "check", "label": "受験票が届いたか、会場と移動手段を確認（5分）"}]}, {"date": "2026-10-04", "phase": "法令・税を回す＋業法の誤答を直す（外出期間）", "time": "夜・移動の合間（0時までに終える）", "minimum": "間違いやすいリストを作る＋業法009", "tasks": [{"id": "1004-l", "type": "check", "label": "間違いやすいリスト（上の3行）を誤答カードの先頭にも書き写す（10分）"}, {"id": "1004-a", "type": "range", "label": "業法 009（未記録の1問）", "volume": 2, "start": 9, "end": 9}, {"id": "1004-r", "type": "redo", "label": "業法の誤答 解き直し①：8種制限・報酬・監督処分。全肢の理由を言えるまで", "volume": 2, "since": "2026-10-03", "questions": [82, 86, 88, 89, 90, 100, 102, 106, 107, 108]}, {"id": "1004-b", "type": "range", "label": "第3分冊 019〜030（法令上の制限）", "volume": 3, "start": 19, "end": 30}]}, {"date": "2026-10-05", "phase": "法令・税を回す＋業法の誤答を直す（外出期間）", "time": "夜・移動の合間（0時までに終える）", "minimum": "上のリストを読む＋本問5問", "tasks": [{"id": "1005-r", "type": "redo", "label": "業法の誤答 解き直し②：35条・37条とその他。全肢の理由を言えるまで", "volume": 2, "since": "2026-10-03", "questions": [54, 60, 61, 63, 69, 72, 77, 95]}, {"id": "1005-a", "type": "range", "label": "第3分冊 031〜045（法令上の制限）", "volume": 3, "start": 31, "end": 45}]}, {"date": "2026-10-06", "phase": "法令・税を回す＋業法の誤答を直す（外出期間）", "time": "夜・移動の合間（0時までに終える）", "minimum": "上のリストを読む＋本問5問", "tasks": [{"id": "1006-a", "type": "range", "label": "第3分冊 046〜063（法令上の制限）", "volume": 3, "start": 46, "end": 63}]}, {"date": "2026-10-07", "phase": "法令・税を回す＋業法の誤答を直す（外出期間）", "time": "現場を外れる日。前夜は0時までに寝る", "minimum": "模試1と採点", "tasks": [{"id": "1007-m", "type": "mock", "label": "模試1 13:00〜15:00 令和7年度", "mockId": "m1"}, {"id": "1007-b", "type": "check", "label": "模試1の誤答を全肢の理由まで直す。うっかりの誤答はリストに1行足す"}, {"id": "1007-a", "type": "range", "label": "余力があれば 第3分冊 064〜070（法令の残り）", "volume": 3, "start": 64, "end": 70, "optional": true}]}, {"date": "2026-10-08", "phase": "法令・税を回す＋業法の誤答を直す（外出期間）", "time": "午前が空く", "minimum": "本問10問", "tasks": [{"id": "1008-a", "type": "range", "label": "第3分冊 064〜070（法令の残り。10/7に済めば飛ばす）", "volume": 3, "start": 64, "end": 70}, {"id": "1008-b", "type": "range", "label": "第3分冊 071〜085（税・価格。基本の問題だけ、深追いしない）", "volume": 3, "start": 71, "end": 85}]}, {"date": "2026-10-09", "phase": "法令・税を回す＋業法の誤答を直す（外出期間）", "time": "夜（0時までに終える）", "minimum": "業法の誤答の2回目", "tasks": [{"id": "1009-a", "type": "range", "label": "第3分冊 086〜102（税・価格）", "volume": 3, "start": 86, "end": 102}, {"id": "1009-r", "type": "redo", "label": "業法の誤答 2回目：解き直しでまた×だった問題だけ", "volume": 2, "since": "2026-10-07", "pick": "wrong", "questions": [82, 86, 88, 89, 90, 100, 102, 106, 107, 108, 54, 60, 61, 63, 69, 72, 77, 95]}, {"id": "1009-b", "type": "check", "label": "業法と法令の誤答カードを一巡"}]}, {"date": "2026-10-10", "phase": "模試と弱点つぶし", "time": "8時間", "minimum": "模試2と採点", "tasks": [{"id": "1010-a", "type": "check", "label": "9:00〜12:00 権利：意思表示・代理・時効 — 肢を読む前に図（権利の図の型を開く）"}, {"id": "1010-m", "type": "mock", "label": "模試2 13:00〜15:00 令和6年度", "mockId": "m2"}, {"id": "1010-b", "type": "check", "label": "採点・誤答の全肢理由＋夜に業法の誤答カード"}]}, {"date": "2026-10-11", "phase": "模試と弱点つぶし", "time": "8時間", "minimum": "借地借家法を一通り", "tasks": [{"id": "1011-a", "type": "check", "label": "権利：借地借家法（2問出る） — 肢を読む前に図（権利の図の型を開く）"}, {"id": "1011-b", "type": "check", "label": "権利：区分所有法・不動産登記法"}, {"id": "1011-c", "type": "check", "label": "夜：権利の誤答見直し＋業法の数字"}, {"id": "1011-h", "type": "redo", "label": "業法の隠れた穴：本問は正解でも小問を落とした問題。小問まで全部の理由を言えたら○", "volume": 2, "since": "2026-10-11", "pick": "holes"}]}, {"date": "2026-10-12", "phase": "模試と弱点つぶし", "time": "8時間", "minimum": "模試3と採点", "tasks": [{"id": "1012-a", "type": "check", "label": "9:00〜12:00 権利：賃貸借・相続・抵当権の基本 — 肢を読む前に図（権利の図の型を開く）"}, {"id": "1012-m", "type": "mock", "label": "模試3 13:00〜15:00 令和5年度", "mockId": "m3"}, {"id": "1012-b", "type": "check", "label": "採点・誤答。Claudeに報告して最終配分を決める"}]}, {"date": "2026-10-13", "phase": "模試と弱点つぶし", "time": "朝と夜（日中は予定あり）", "minimum": "模試2・3の誤答を一巡", "tasks": [{"id": "1013-a", "type": "check", "label": "7:00〜10:30 模試2・3の誤答"}, {"id": "1013-b", "type": "check", "label": "18:00〜21:00 業法の弱点：誤答18問の3回目＋模試の業法の誤答"}]}, {"date": "2026-10-14", "phase": "模試と弱点つぶし", "time": "8時間（昼に予定1件）", "minimum": "統計の数字を覚える", "tasks": [{"id": "1014-a", "type": "check", "label": "法改正と統計（RE.LIFE直前動画。無ければ予想模試の統計ページ）"}, {"id": "1014-b", "type": "check", "label": "税・価格と法令の数字表"}, {"id": "1014-c", "type": "check", "label": "夜：業法の誤答カード"}, {"id": "1014-h", "type": "redo", "label": "第3分冊の隠れた穴：本問は正解でも小問を落とした問題。小問まで言えたら○", "volume": 3, "since": "2026-10-14", "pick": "holes"}]}, {"date": "2026-10-15", "phase": "模試と弱点つぶし", "time": "8時間", "minimum": "模試4と採点", "tasks": [{"id": "1015-a", "type": "check", "label": "午前：弱点1位の分野"}, {"id": "1015-m", "type": "mock", "label": "模試4 13:00〜15:00 予想模試①（無ければR4）", "mockId": "m4"}, {"id": "1015-b", "type": "check", "label": "採点・誤答"}]}, {"date": "2026-10-16", "phase": "模試と弱点つぶし", "time": "8時間", "minimum": "模試5と採点", "tasks": [{"id": "1016-a", "type": "check", "label": "午前：弱点2位の分野"}, {"id": "1016-m", "type": "mock", "label": "模試5 13:00〜15:00 予想模試②（無ければR3・10月）", "mockId": "m5"}, {"id": "1016-b", "type": "check", "label": "採点・誤答。数字カードの最終版を作る"}]}, {"date": "2026-10-17", "phase": "前日", "time": "軽め", "minimum": "持ち物の確認と早寝", "tasks": [{"id": "1017-a", "type": "check", "label": "間違いやすいリスト・数字カード・誤答カードの見直し（新しい問題はやらない）"}, {"id": "1017-b", "type": "check", "label": "業法の一問一答30問"}, {"id": "1017-c", "type": "check", "label": "持ち物：受験票・鉛筆（HB/B）複数・消しゴム・通信機能のない腕時計・昼食・上着"}, {"id": "1017-d", "type": "check", "label": "22時までに寝る"}]}, {"date": "2026-10-18", "phase": "本試験", "time": "13:00〜15:00", "minimum": "解く順番を守る", "tasks": [{"id": "1018-a", "type": "check", "label": "朝：間違いやすいリスト・数字カード・業法の誤答カードだけ（30分以内）"}, {"id": "1018-b", "type": "check", "label": "12:00までに会場着（集合時刻は受験票で確認）"}, {"id": "1018-c", "type": "check", "label": "解く順番：業法→免除5問→法令・税→権利"}, {"id": "1018-d", "type": "check", "label": "当夜に自己採点して記録"}]}], "checkpoints": [{"date": "2026-10-03", "label": "業法が111問に届いたか", "metric": "count", "volume": 2, "start": 1, "end": 111, "need": 111, "fail": "残り（009）を10/4に回した。第3分冊は001〜018が先行済みのためずらさない"}, {"date": "2026-10-03", "label": "業法050〜111の本問正答率70%以上", "metric": "accuracy", "volume": 2, "start": 50, "end": 111, "need": 0.7, "fail": "10/10の午前を業法の誤答に変える（権利を削る）（10/3は71%で到達。権利は削らず、先行した法令18問分の時間を業法の誤答の解き直しに充てる）"}, {"date": "2026-10-07", "label": "模試1：業法14点以上", "metric": "mock", "mockId": "m1", "field": "gyoho", "need": 14, "fail": "10/10・10/11の午前の一部を業法に回す"}, {"date": "2026-10-07", "label": "模試1：合計28点以上", "metric": "mock", "mockId": "m1", "field": "total", "need": 28, "fail": "25点未満なら権利の目標を7に下げ、業法・法令・免除5問に寄せる"}, {"date": "2026-10-09", "label": "第3分冊 001〜102に届いたか", "metric": "count", "volume": 3, "start": 1, "end": 102, "need": 102, "fail": "税・価格の残りは10/14へ。法令を優先"}, {"date": "2026-10-12", "label": "模試3：合計34点以上", "metric": "mock", "mockId": "m3", "field": "total", "need": 34, "fail": "10/15・10/16の午前をすべて業法と法令に"}, {"date": "2026-10-15", "label": "模試4：合計36点以上", "metric": "mock", "mockId": "m4", "field": "total", "need": 36, "fail": "10/16の午前を目標割れの分野に"}], "cutOrder": ["権利関係の、頻出でない論点（物権変動の細部・共有・地役権・債権総論の細部・担保物権の深いところ）", "税・価格の深追い（取得税・固定資産税・登録免許税／印紙税の基本だけ残す）", "模試の回数（5回→4回。ただし3回は必ず解く）", "免除5問の新しい学習（済みの20問の見直しだけにする）"], "keep": "業法の残り全部、法令上の制限、前日の誤答の見直し、模試3回、本番の解く順番の練習", "traps": {"title": "間違いやすいリスト（解く前に1分）", "from": "2026-10-04", "items": [{"text": "買主も業者なら、8種制限は外れる", "refs": "業法 083・092・093"}, {"text": "その処分をできるのは誰か。免許取消は免許権者だけ", "refs": "業法 107・108"}, {"text": "消費税：税込の価格は割り戻してから計算する。免税業者は×1.04", "refs": "報酬の計算"}]}};
 
 /* Imported question text is rendered with textContent only. */
 (function(w){'use strict';
@@ -2448,21 +2455,22 @@ $('#toc-body').addEventListener('click',e=>{const b=e.target.closest('button.jt'
 let tx=null;$('#toc').addEventListener('touchstart',e=>{tx=e.touches[0].clientX;},{passive:true});$('#toc').addEventListener('touchend',e=>{if(tx!==null&&tx-e.changedTouches[0].clientX>70)toc(false);tx=null;});
 /* ---- 現在地 ---- */
 let cur=1;
-function setCur(n){cur=n;const e=TOC.find(x=>x.no===n);$('#cur-no').textContent=`${pad(n)} / ${pad(TOC.length)}`;$('#cur-ttl').textContent=e?e.title:'';$$('#toc .row').forEach(a=>a.classList.toggle('on',+a.dataset.no===n));if(!document.body.matches('.q,.z,.pm,.k,.n,.r,.calc'))$('#ttl').innerHTML=`${e?e.title:''}<small>${e?e.subject:''} ${pad(n)}/${TOC.length}</small>`;history.replaceState(null,'','#w'+n);localStorage.setItem('tk-pos',n);}
+function setCur(n){cur=n;const e=TOC.find(x=>x.no===n);$('#cur-no').textContent=`${pad(n)} / ${pad(TOC.length)}`;$('#cur-ttl').textContent=e?e.title:'';$$('#toc .row').forEach(a=>a.classList.toggle('on',+a.dataset.no===n));if(!document.body.matches('.q,.z,.pm,.k,.n,.kf,.r,.calc'))$('#ttl').innerHTML=`${e?e.title:''}<small>${e?e.subject:''} ${pad(n)}/${TOC.length}</small>`;history.replaceState(null,'','#w'+n);localStorage.setItem('tk-pos',n);}
 function go(n){const w=$('#w'+n);if(!w)return;w.scrollIntoView({behavior:'smooth',block:'start'});setCur(n);}
 $('#bt-prev').onclick=()=>go(Math.max(1,cur-1));$('#bt-next').onclick=()=>go(Math.min(TOC.length,cur+1));
-const io=new IntersectionObserver(es=>{es.forEach(x=>{if(x.isIntersecting&&!document.body.matches('.q,.z,.pm,.k,.n,.r,.calc'))setCur(+x.target.dataset.no);});},{rootMargin:'-40% 0px -40% 0px',threshold:0});
+const io=new IntersectionObserver(es=>{es.forEach(x=>{if(x.isIntersecting&&!document.body.matches('.q,.z,.pm,.k,.n,.kf,.r,.calc'))setCur(+x.target.dataset.no);});},{rootMargin:'-40% 0px -40% 0px',threshold:0});
 $$('.wrap').forEach(w=>io.observe(w));
 /* ---- タブ ---- */
-const scrollPos={s:0,q:0,z:0,p:0,k:0,n:0,r:0,c:0};
+const scrollPos={s:0,q:0,z:0,p:0,k:0,n:0,f:0,r:0,c:0};
 function tab(t,options){
- const was=document.body.classList.contains('calc')?'c':document.body.classList.contains('r')?'r':document.body.classList.contains('n')?'n':document.body.classList.contains('k')?'k':document.body.classList.contains('pm')?'p':document.body.classList.contains('q')?'q':document.body.classList.contains('z')?'z':'s';
+ const was=document.body.classList.contains('kf')?'f':document.body.classList.contains('calc')?'c':document.body.classList.contains('r')?'r':document.body.classList.contains('n')?'n':document.body.classList.contains('k')?'k':document.body.classList.contains('pm')?'p':document.body.classList.contains('q')?'q':document.body.classList.contains('z')?'z':'s';
  scrollPos[was]=window.scrollY;
- document.body.classList.toggle('calc',t==='c');if(t!=='c')TakkenCalc.hide();document.body.classList.toggle('r',t==='r');document.body.classList.toggle('n',t==='n');document.body.classList.toggle('k',t==='k');document.body.classList.toggle('pm',t==='p');document.body.classList.toggle('q',t==='q');document.body.classList.toggle('z',t==='z');
- ['p','s','q','z','r','c'].forEach(k=>$('#tab-'+k).classList.toggle('on',t===k||(t==='k'&&k==='q')||(t==='n'&&k==='p')));
+ document.body.classList.toggle('kf',t==='f');document.body.classList.toggle('calc',t==='c');if(t!=='c')TakkenCalc.hide();document.body.classList.toggle('r',t==='r');document.body.classList.toggle('n',t==='n');document.body.classList.toggle('k',t==='k');document.body.classList.toggle('pm',t==='p');document.body.classList.toggle('q',t==='q');document.body.classList.toggle('z',t==='z');
+ ['p','s','q','z','r','c'].forEach(k=>$('#tab-'+k).classList.toggle('on',t===k||(t==='k'&&k==='q')||((t==='n'||t==='f')&&k==='p')));
  if(t==='c'){$('#ttl').textContent='計算ドリル';history.replaceState(null,'','#calc');TakkenCalc.show(options&&options.topic);}
  else if(t==='r'){$('#ttl').textContent='ラリー';history.replaceState(null,'','#rally');TakkenRally.show();}
  else if(t==='n'){$('#ttl').textContent='つまずきノート';history.replaceState(null,'','#pitfalls');}
+ else if(t==='f'){$('#ttl').textContent='権利の図の型';history.replaceState(null,'','#kenri-fig');}
  else if(t==='p'){$('#ttl').innerHTML='宅建2026';history.replaceState(null,'','#pm');TakkenPM.show();}
  else if(t==='k'){$('#ttl').textContent='神問題集';history.replaceState(null,'','#kami');TakkenKamiBank.open(options);}
  else if(t==='q'){$('#ttl').innerHTML='確認問題<small>'+QS.length+'問</small>';history.replaceState(null,'','#quiz');renderProg();}
@@ -2477,6 +2485,10 @@ function showPitfall(id,updateHash=true){const cards=$$('#pitfalls .pf-card');le
 $('#pf-select').onchange=e=>{showPitfall(e.target.value);window.scrollTo(0,0);};
 document.addEventListener('click',e=>{const step=e.target.closest('[data-pf-step]');if(step){const s=$('#pf-select');const next=s.options[s.selectedIndex+Number(step.dataset.pfStep)];if(next){showPitfall(next.value);window.scrollTo(0,0);}}if(e.target.closest('[data-pitfalls-open]')){toc(false);tab('n');showPitfall($('#pf-select').value);}});
 showPitfall('pf-deposit-cap',false);
+function showKenriFigure(id,updateHash=true){const cards=$$('#kenri-fig .kf-card');let i=cards.findIndex(c=>c.id===id);if(i<0)i=0;cards.forEach((c,j)=>c.hidden=i!==j);$('#kf-select').value=cards[i].id;$$('[data-kf-step]').forEach(b=>b.disabled=+b.dataset.kfStep<0?i===0:i===cards.length-1);if(updateHash)history.replaceState(null,'','#'+cards[i].id);}
+$('#kf-select').onchange=e=>{showKenriFigure(e.target.value);window.scrollTo(0,0);};
+document.addEventListener('click',e=>{const step=e.target.closest('[data-kf-step]');if(step){const s=$('#kf-select');const next=s.options[s.selectedIndex+Number(step.dataset.kfStep)];if(next){showKenriFigure(next.value);window.scrollTo(0,0);}}if(e.target.closest('[data-kenri-fig-open]')){toc(false);tab('f');showKenriFigure($('#kf-select').value);}});
+showKenriFigure('kf-sagi',false);
 document.addEventListener('takken-pm-show',()=>tab('p'));
 document.addEventListener('takken-kami-close',()=>tab('p'));
 document.addEventListener('click',e=>{const b=e.target.closest('[data-kami-open]');if(!b)return;const range=b.dataset.kamiRange&&b.dataset.kamiRange.split(':').map(Number);tab('k',range&&range.length===3?{range:{volume:range[0],start:range[1],end:range[2]}}:b.dataset.kamiQuestion?{volume:Number(b.dataset.kamiVolume||3),questionNo:Number(b.dataset.kamiQuestion),kind:b.dataset.kamiKind||'main',item:b.dataset.kamiItem}:undefined);});
@@ -2559,7 +2571,7 @@ async function importKamiLink(fragment){
  }catch(e){out.textContent='取り込めませんでした。取り込み用リンクを開き直すか、問題集JSONを読み込んでください。';out.classList.add('kr-warn');}
 }
 window.addEventListener('hashchange',()=>{const h=location.hash;if(h.startsWith('#kami-import=')){tab('k');importKamiLink(h);}});
-(function(){const h=initialHash;if(h==='#calc'||h==='#calc-fee'||h==='#calc-building'){tab('c',h==='#calc'?undefined:{topic:h.slice(6)});}else if(h==='#rally'){tab('r');}else if(h==='#pitfalls'||h.startsWith('#pf-')){tab('n');showPitfall(h.startsWith('#pf-')?h.slice(1):'pf-deposit-cap',false);}else if(h.startsWith('#kami-import=')){tab('k');importKamiLink(h);}else if(h==='#kami'){tab('k');}else if(h==='#toc'){tab('s');toc(true);}else if(['#video-scope','#optional-details'].includes(h)||h==='#guarantee-guide'||/^#zk(?:\d+|-tax|-law|-rights|-focus|-index)$/.test(h)){openDiagram(h.slice(1));}else if(h==='#zukai'){tab('z');}else if(h==='#quiz'){tab('q');$('#q-go').click();}else if(/^#w(?:57|58|59|60)$/.test(h)){openDiagram('optional-details');}else if(/^#w\d+$/.test(h)){tab('s');setTimeout(()=>go(+h.slice(2)),50);}else{cur=Math.min(TOC.length,Math.max(1,+localStorage.getItem('tk-pos')||1));tab('p');}})();
+(function(){const h=initialHash;if(h==='#calc'||h==='#calc-fee'||h==='#calc-building'){tab('c',h==='#calc'?undefined:{topic:h.slice(6)});}else if(h==='#rally'){tab('r');}else if(h==='#kenri-fig'||h.startsWith('#kf-')){tab('f');showKenriFigure(h.startsWith('#kf-')?h.slice(1):'kf-sagi',false);}else if(h==='#pitfalls'||h.startsWith('#pf-')){tab('n');showPitfall(h.startsWith('#pf-')?h.slice(1):'pf-deposit-cap',false);}else if(h.startsWith('#kami-import=')){tab('k');importKamiLink(h);}else if(h==='#kami'){tab('k');}else if(h==='#toc'){tab('s');toc(true);}else if(['#video-scope','#optional-details'].includes(h)||h==='#guarantee-guide'||/^#zk(?:\d+|-tax|-law|-rights|-focus|-index)$/.test(h)){openDiagram(h.slice(1));}else if(h==='#zukai'){tab('z');}else if(h==='#quiz'){tab('q');$('#q-go').click();}else if(/^#w(?:57|58|59|60)$/.test(h)){openDiagram('optional-details');}else if(/^#w\d+$/.test(h)){tab('s');setTimeout(()=>go(+h.slice(2)),50);}else{cur=Math.min(TOC.length,Math.max(1,+localStorage.getItem('tk-pos')||1));tab('p');}})();
 </script>
 <script>/* 見つけやすさの整理（2026-09-30）。スライド・図解の中身は変えない。
    1) 図解タブの先頭に、本試験の解く順で並べた目次
